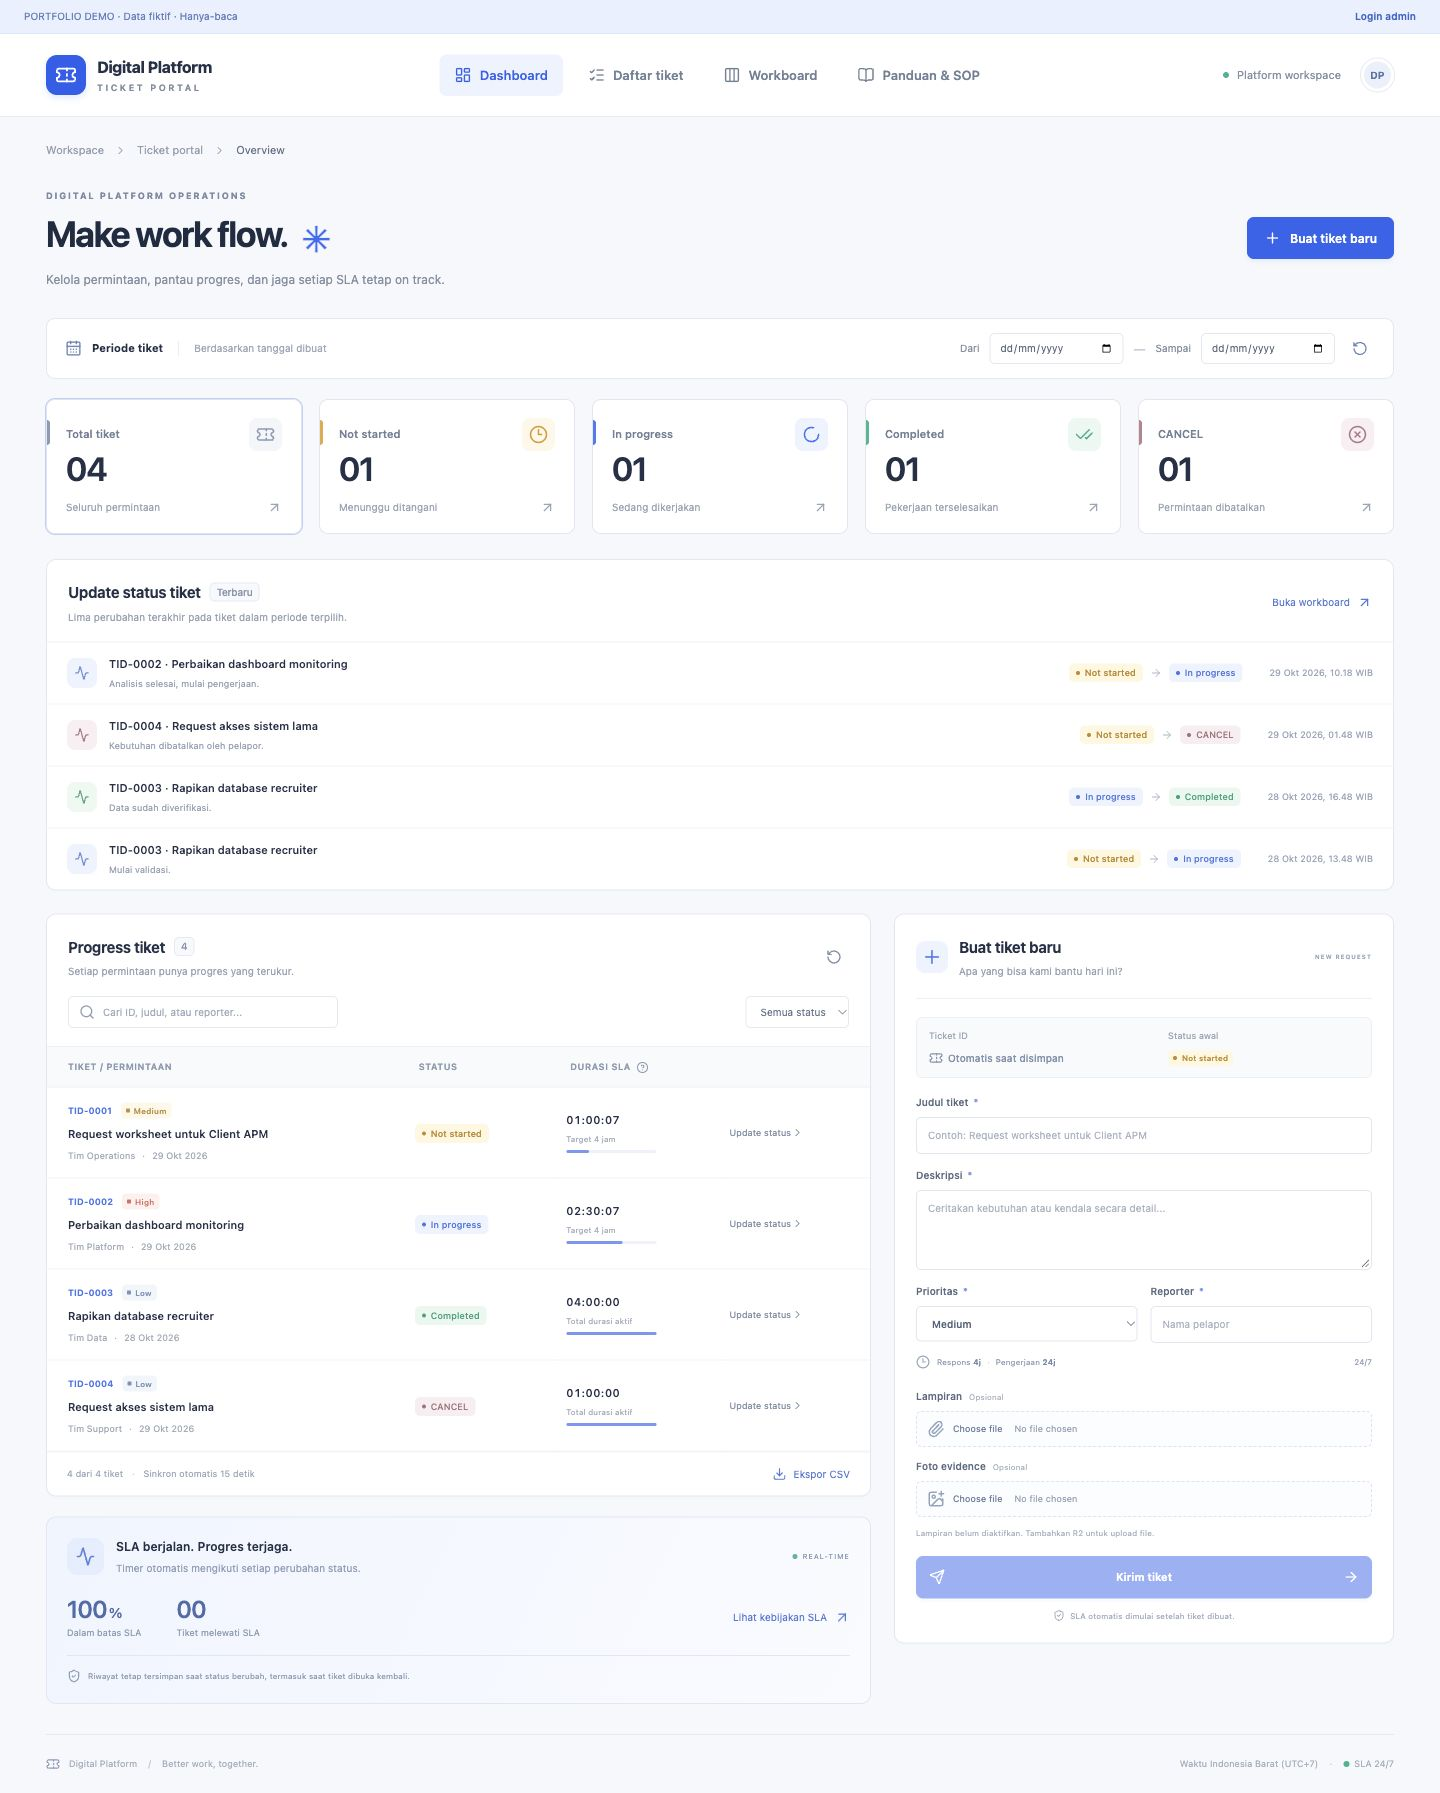
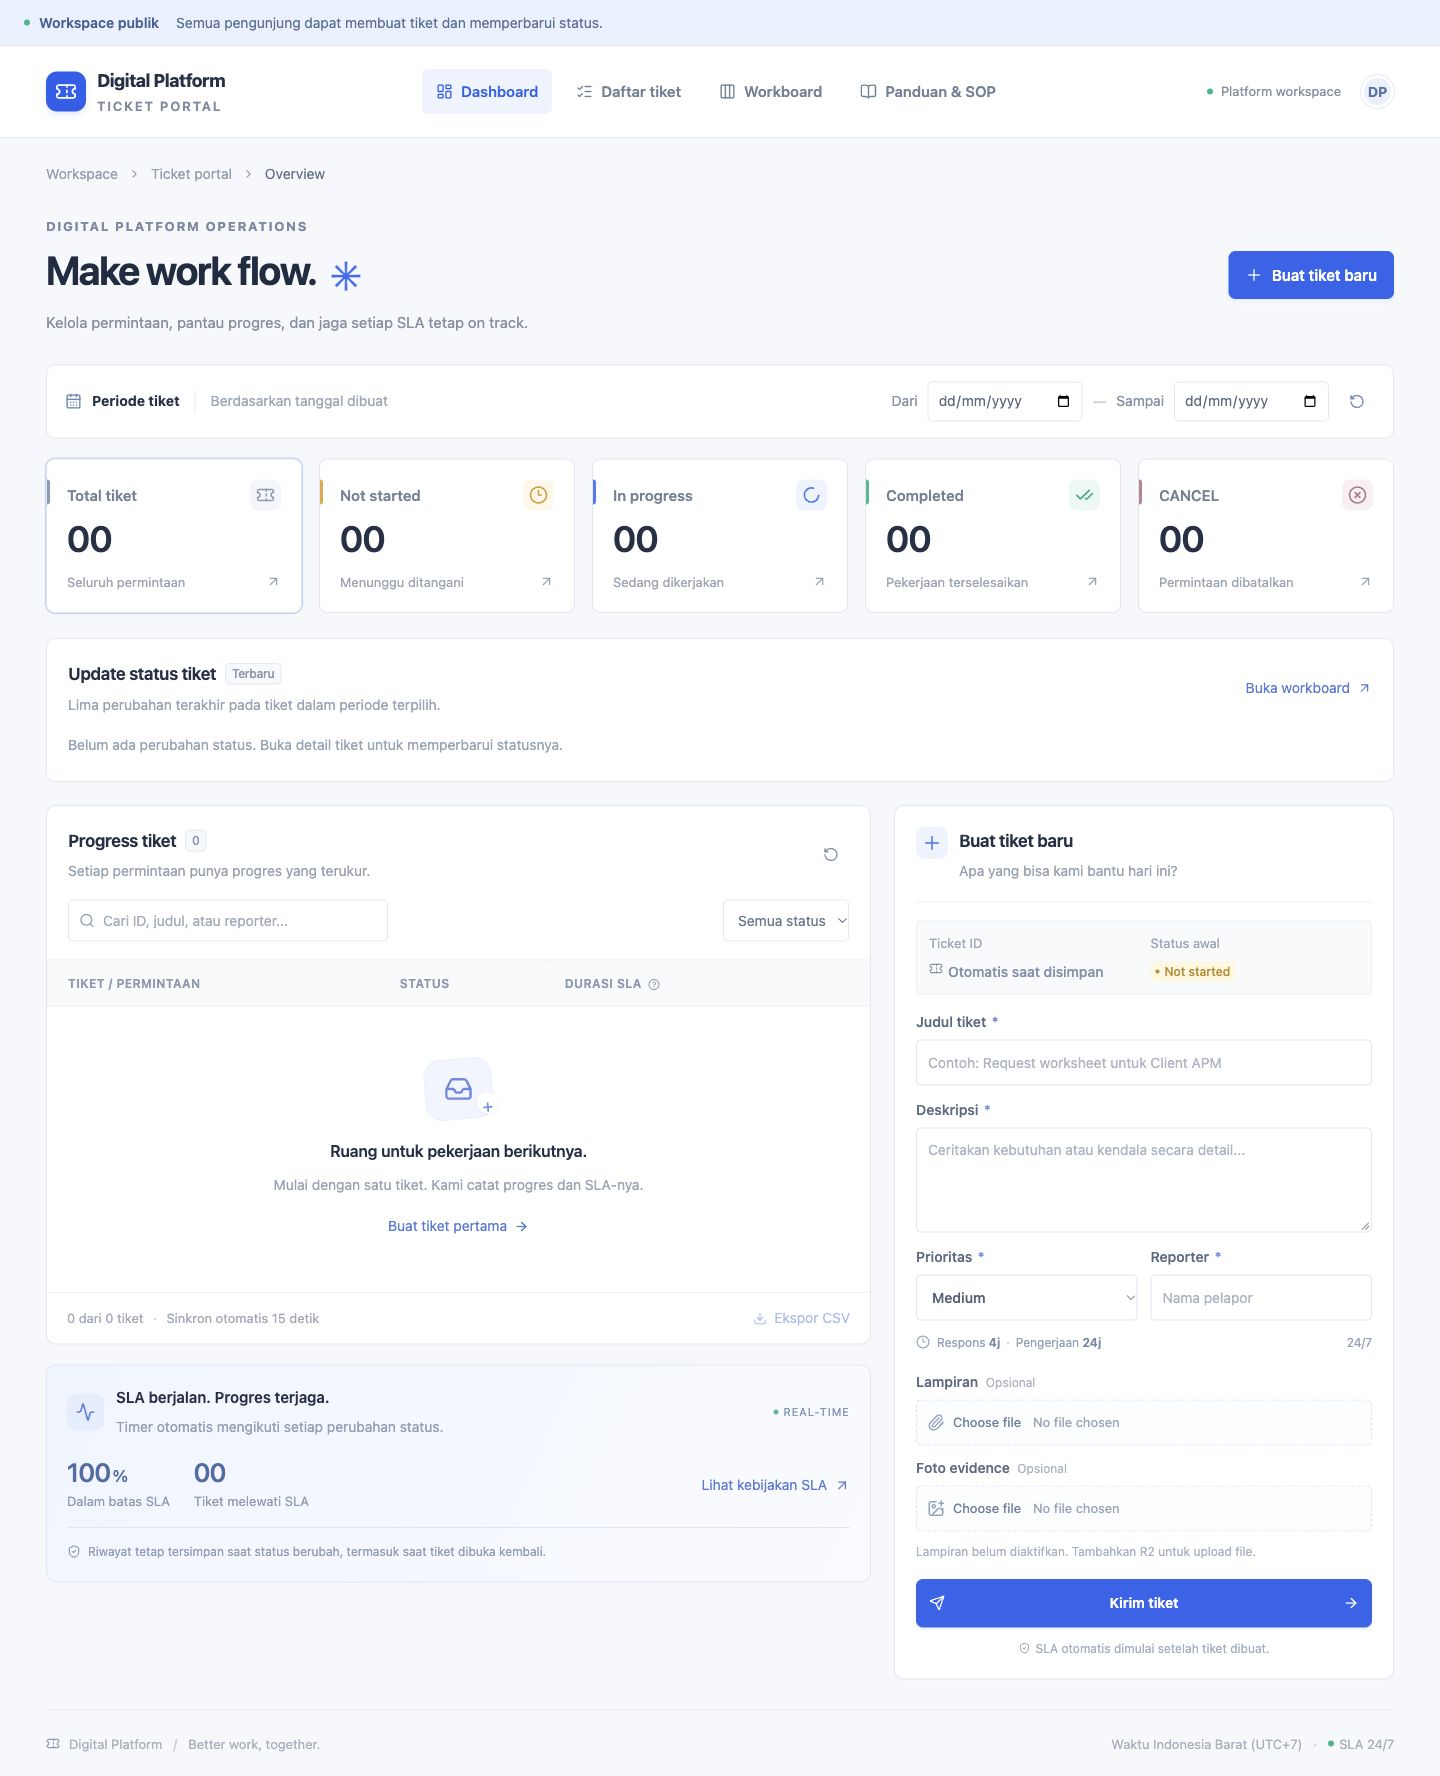
Refresh public workspace screenshots and deployment validation

diff --git a/docs/VALIDATION.md b/docs/VALIDATION.md
@@ -19,4 +19,4 @@ Live app: https://digital-ticket-portal.billytamaputra.workers.dev
 
 Cloudflare account remains on Workers Free + D1 Free. R2 remains disabled. No source migration or database reset is required for this update. The previous admin credentials are not used by the new Worker. The original Sites deployment is separate and unchanged.
 
-Production and current GitHub Actions results are checked after deploying the prepared update. No load/capacity testing or old Sites data/file import has been performed.
+Production verification passed: `/api/config` reports public access, ticket reads work without cookies, legacy login returns 410, a status update for a nonexistent ticket reaches the handler and returns 404 without a session, cross-origin writes return 403, and R2 remains disabled. Existing production tickets were not modified. GitHub Actions passed for the implementation commit. Production browser verification found zero login buttons; mobile inputs are 16px and the 390px viewport has no page overflow. Screenshots have been refreshed from the live public workspace. No load/capacity testing or old Sites data/file import has been performed.
